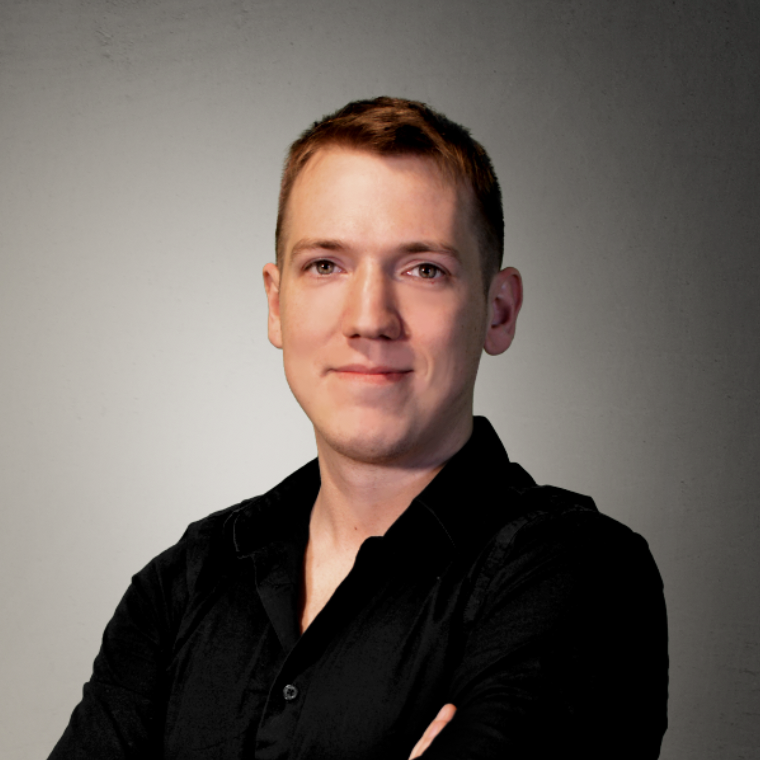
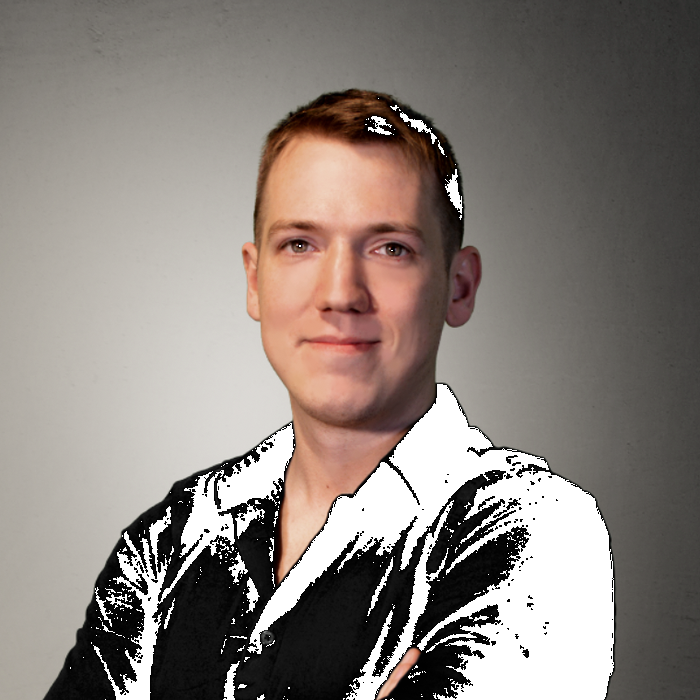
edeg

diff --git a/team.html b/team.html
@@ -150,7 +150,7 @@
               
               <figure class="user">
                 <a href="" class="user-photo">
-                  <img src="app/assets/images/joe.png" alt="Avatar">
+                  <img src="app/assets/images/joe_edited.png" alt="Avatar">
                 </a>
                 <figcaption class="user-caption">
                   <h5>Joe Nance</h5>
@@ -163,7 +163,7 @@
 
               <figure class="user">
                 <a href="" class="user-photo">
-                  <img src="app/assets/images/tori.png" alt="Avatar">
+                  <img src="app/assets/images/tori_edited.png" alt="Avatar">
                 </a>
                 <figcaption class="user-caption">
                   <h5>Tori Huang, Ph.D.</h5>
@@ -189,7 +189,7 @@
 
               <figure class="user">
                 <a href="" class="user-photo">
-                  <img src="app/assets/images/cody.png" alt="Avatar">
+                  <img src="app/assets/images/cody_edited.png" alt="Avatar">
                 </a>
                 <figcaption class="user-caption">
                   <h5>Cody Gliszczynski</h5>
